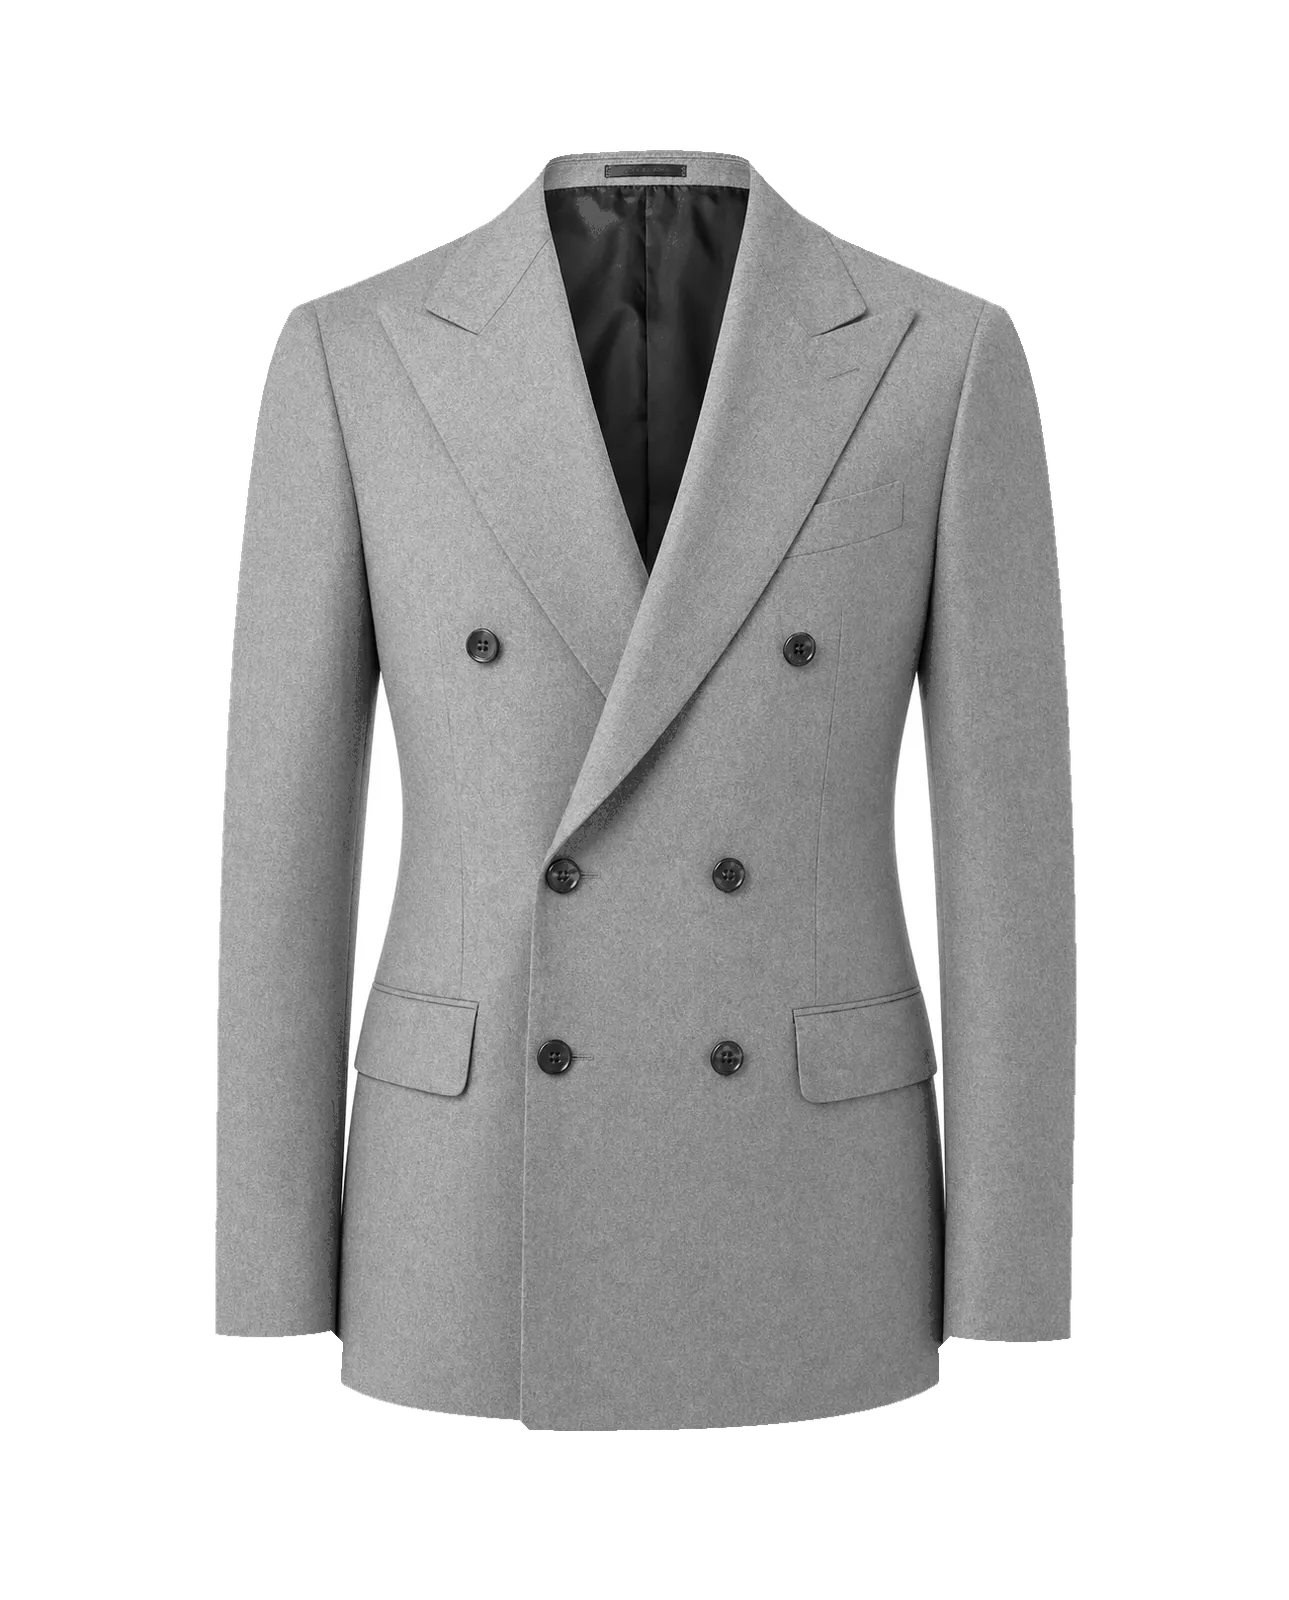
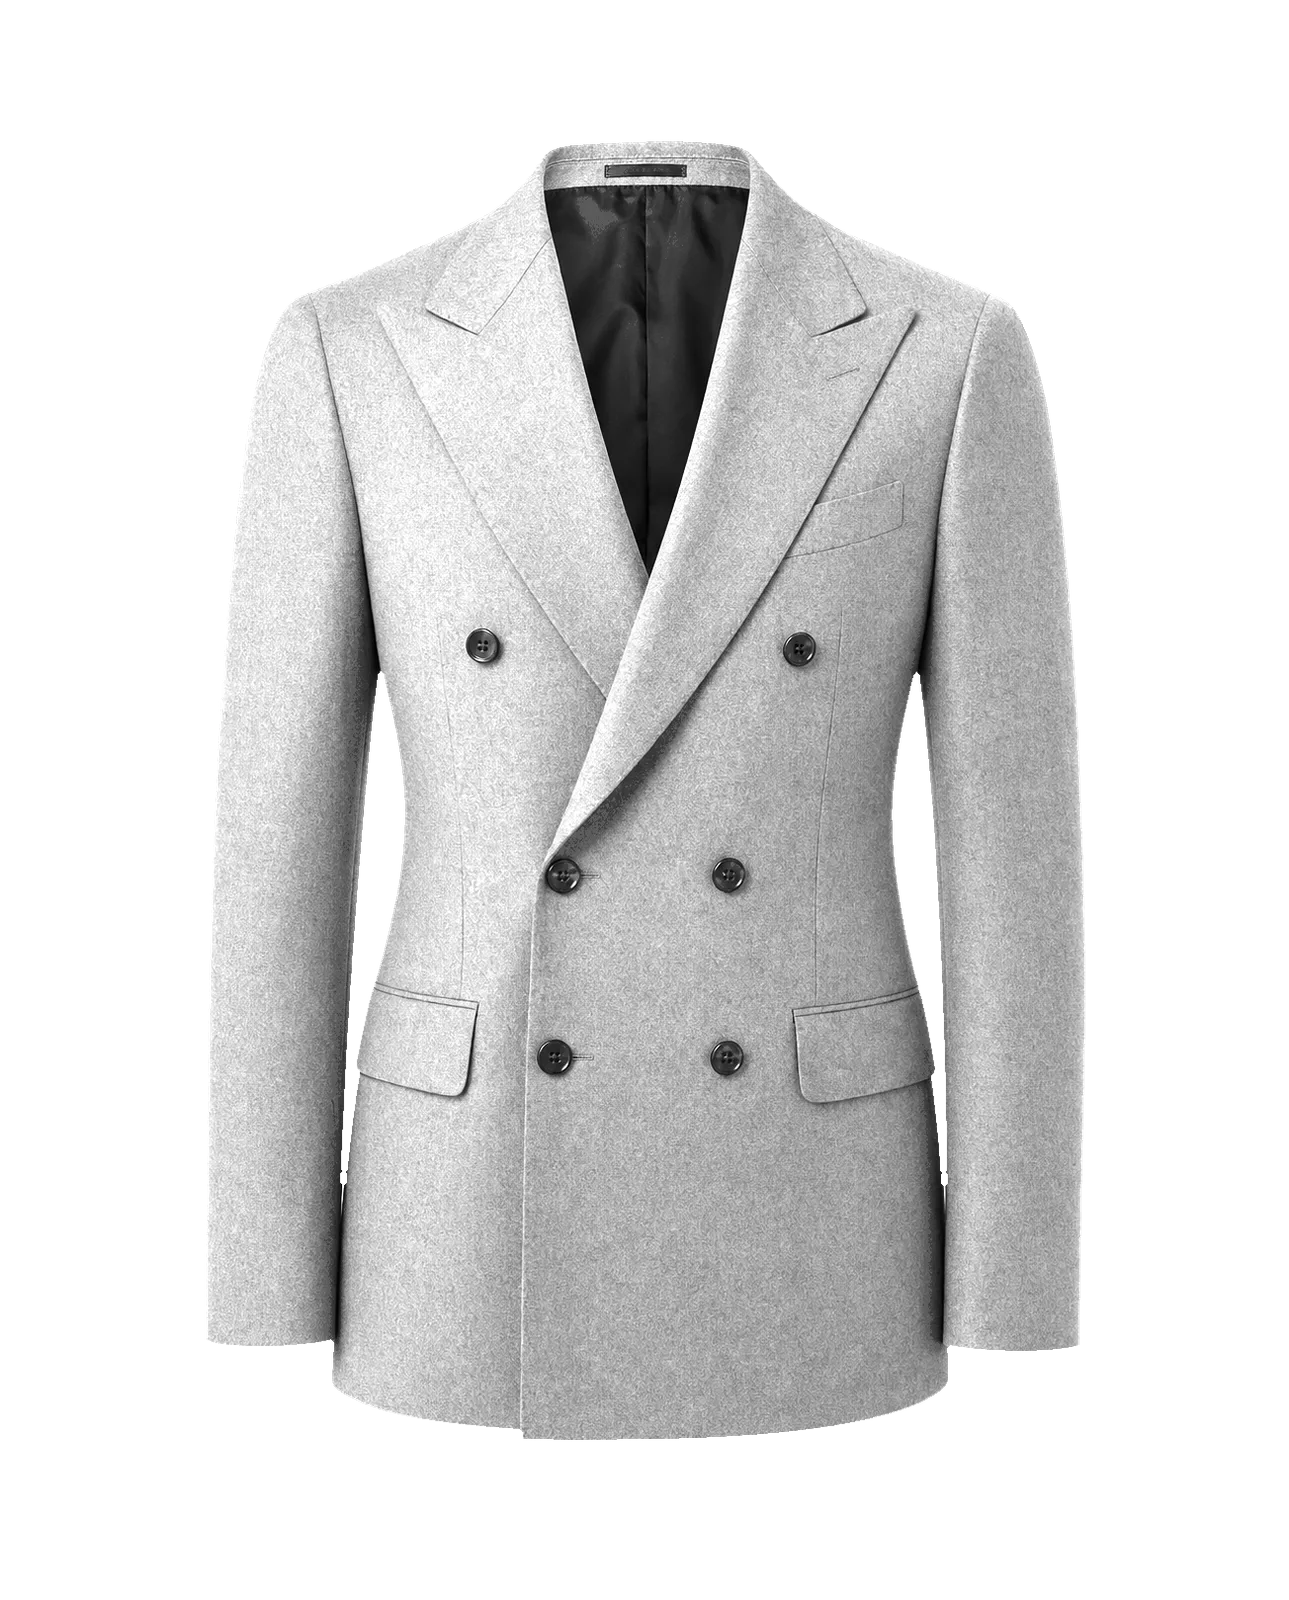
Extend gap and pitch-mismatch fixes to both DB jackets
jacket-db already has a genuine gap on both sides (different, larger
source photo) — checked its alpha directly, no fix needed there.
jacket-db-peak-flap's source photo is effectively the same frame as
jacket-sb's (971x1619 vs 972x1619) and carries the identical gap in the
identical position on both sides — confirmed by trying jacket-sb's
exact GAP_ISLAND_FIXES box against it directly, no fresh measurement
needed, landed clean first try. Added the fix for that key.

Both DB garments' sleeves already use strength:0.74 (same as
jacket-sb's), so JACKET_DB_BODY_SCALE and
JACKET_DB_PEAK_FLAP_BODY_SCALE reuse it directly — same whole-canvas,
unrotated, strength 0.74 box as JACKET_SB_BODY_SCALE, positioned first
in each DISPLACEMENT_REGIONS entry so lapel/sleeve regions still draw
their own scale on top.

Verified with scabal_pinstripe_navy: both gaps present on
jacket-db-peak-flap, body/sleeve pitch consistent on both DB garments.
Confirmed jacket-db.webp needed no asset rebuild (gap was already
correct) — only jacket-db-peak-flap.webp changed. Full smoke suite
green. Bumped CACHE_VERSION.

diff --git a/garment-photo.js b/garment-photo.js
@@ -230,6 +230,17 @@ var JACKET_SB_BODY_SCALE = [
     { x: 0, y: 0, w: 1, h: 1, angle: 0, strength: 0.74 }
 ];
 
+// Same body/sleeve pitch mismatch, same fix, for both DB garments —
+// JACKET_DB_SLEEVES and JACKET_DB_PEAK_FLAP_SLEEVES both already use
+// strength 0.74, so this reuses that exact value rather than
+// re-deriving it.
+var JACKET_DB_BODY_SCALE = [
+    { x: 0, y: 0, w: 1, h: 1, angle: 0, strength: 0.74 }
+];
+var JACKET_DB_PEAK_FLAP_BODY_SCALE = [
+    { x: 0, y: 0, w: 1, h: 1, angle: 0, strength: 0.74 }
+];
+
 // Peak lapel (jacket-sb-peak-*): two prior passes at this trace both
 // mis-shaped it — a blind grid-eyeball guess, then a pinstripe-kink
 // analysis (August 2026) that fixed the worst of it but still
@@ -427,11 +438,11 @@ var DISPLACEMENT_REGIONS = {
     "jacket-sb": JACKET_SB_BODY_SCALE.concat(JACKET_SB_LAPELS, JACKET_SB_COLLAR_LEFT, JACKET_SB_COLLAR_RIGHT, JACKET_SB_SLEEVES_V2),
     "jacket-sb-peak-patch": JACKET_SB_PEAK_LAPELS.concat(JACKET_SB_PEAK_TIPS, JACKET_SLEEVES),
     "jacket-sb-peak-flap": JACKET_SB_PEAK_LAPELS.concat(JACKET_SB_PEAK_TIPS, JACKET_SLEEVES),
-    "jacket-db": JACKET_DB_LAPELS.concat(JACKET_DB_SLEEVES),
+    "jacket-db": JACKET_DB_BODY_SCALE.concat(JACKET_DB_LAPELS, JACKET_DB_SLEEVES),
     // The four below are new (23-24 Aug 2026) and have never had a lapel/collar
     // trace — sleeves only, same reasoning as jacket-sb above.
     "jacket-sb-notch-patch": JACKET_SB_NOTCH_PATCH_SLEEVES,
-    "jacket-db-peak-flap": JACKET_DB_PEAK_FLAP_SLEEVES,
+    "jacket-db-peak-flap": JACKET_DB_PEAK_FLAP_BODY_SCALE.concat(JACKET_DB_PEAK_FLAP_SLEEVES),
     "jacket-safari": JACKET_SAFARI_SLEEVES,
     "jacket-chore": JACKET_CHORE_SLEEVES,
     "jacket-a2": JACKET_A2_SLEEVES,

diff --git a/tools/build-garment-assets.js b/tools/build-garment-assets.js
@@ -128,6 +128,17 @@ var GAP_ISLAND_FIXES = {
     "jacket-sb-notch-patch": [
         { x: 0.15, y: 0.40, w: 0.14, h: 0.34 },
         { x: 0.71, y: 0.40, w: 0.14, h: 0.34 }
+    ],
+    // jacket-db-peak-flap's own source photo (971x1619, effectively the
+    // same frame as jacket-sb's 972x1619) carries the identical gap in
+    // the identical position too — same confirmation method: tried
+    // jacket-sb's exact box against it and it landed clean on both
+    // sides. jacket-db itself (a different, much larger source photo)
+    // already has a real gap on both sides from its own mask — checked
+    // directly, no fix needed there.
+    "jacket-db-peak-flap": [
+        { x: 0.15, y: 0.40, w: 0.14, h: 0.34 },
+        { x: 0.71, y: 0.40, w: 0.14, h: 0.34 }
     ]
 };
 

diff --git a/sw.js b/sw.js
@@ -6,7 +6,7 @@
 // IMPORTANT: bump CACHE_VERSION on every deploy that changes any
 // cached file (the ?v= params below must match index.html).
 
-var CACHE_VERSION = "bbs-v162";
+var CACHE_VERSION = "bbs-v163";
 
 var PRECACHE = [
     "./",

diff --git a/docs/2026-08-23-style-room-image-prompts.md b/docs/2026-08-23-style-room-image-prompts.md
@@ -235,6 +235,25 @@ asked. Re-measured: body and sleeve pitch both landed at 9px after the
 fix (were 12 vs 9). No regression on `fox_flannel_chalkstripe` or
 `holland_sherry_windowpane_blue`.
 
+**Third follow-up, same day: both DB jackets checked for the same two
+issues.** `jacket-db` (a different, much larger source photo) already
+had a genuine gap on both sides — checked its alpha channel directly,
+no fix needed. `jacket-db-peak-flap`'s own source photo turned out to
+be effectively the same frame as `jacket-sb`'s (971x1619 vs 972x1619)
+and carried the identical gap in the identical position on both sides —
+confirmed the same way as `jacket-sb-notch-patch` before it: tried
+`jacket-sb`'s exact box coordinates directly rather than measuring
+fresh, landed clean on both sides first try. Added `GAP_ISLAND_FIXES`
+for `jacket-db-peak-flap`.
+
+Both DB garments' sleeves already use `strength: 0.74` (same value as
+`jacket-sb`'s), so `JACKET_DB_BODY_SCALE` and `JACKET_DB_PEAK_FLAP_
+BODY_SCALE` reuse it directly rather than re-deriving anything — same
+whole-canvas, unrotated, `strength: 0.74` box as `JACKET_SB_BODY_SCALE`,
+positioned first in each key's `DISPLACEMENT_REGIONS` entry. Verified
+with `scabal_pinstripe_navy`: both gaps present on `jacket-db-peak-
+flap`, body/sleeve pitch reads consistent on both DB garments.
+
 **Founder correction (23 Aug 2026): the shipped notch lapel reads too
 narrow. Widen it to at least 4" (≈10cm) at its widest point** — still a
 true notch (clean V where collar meets lapel), not a peak, just cut fuller
